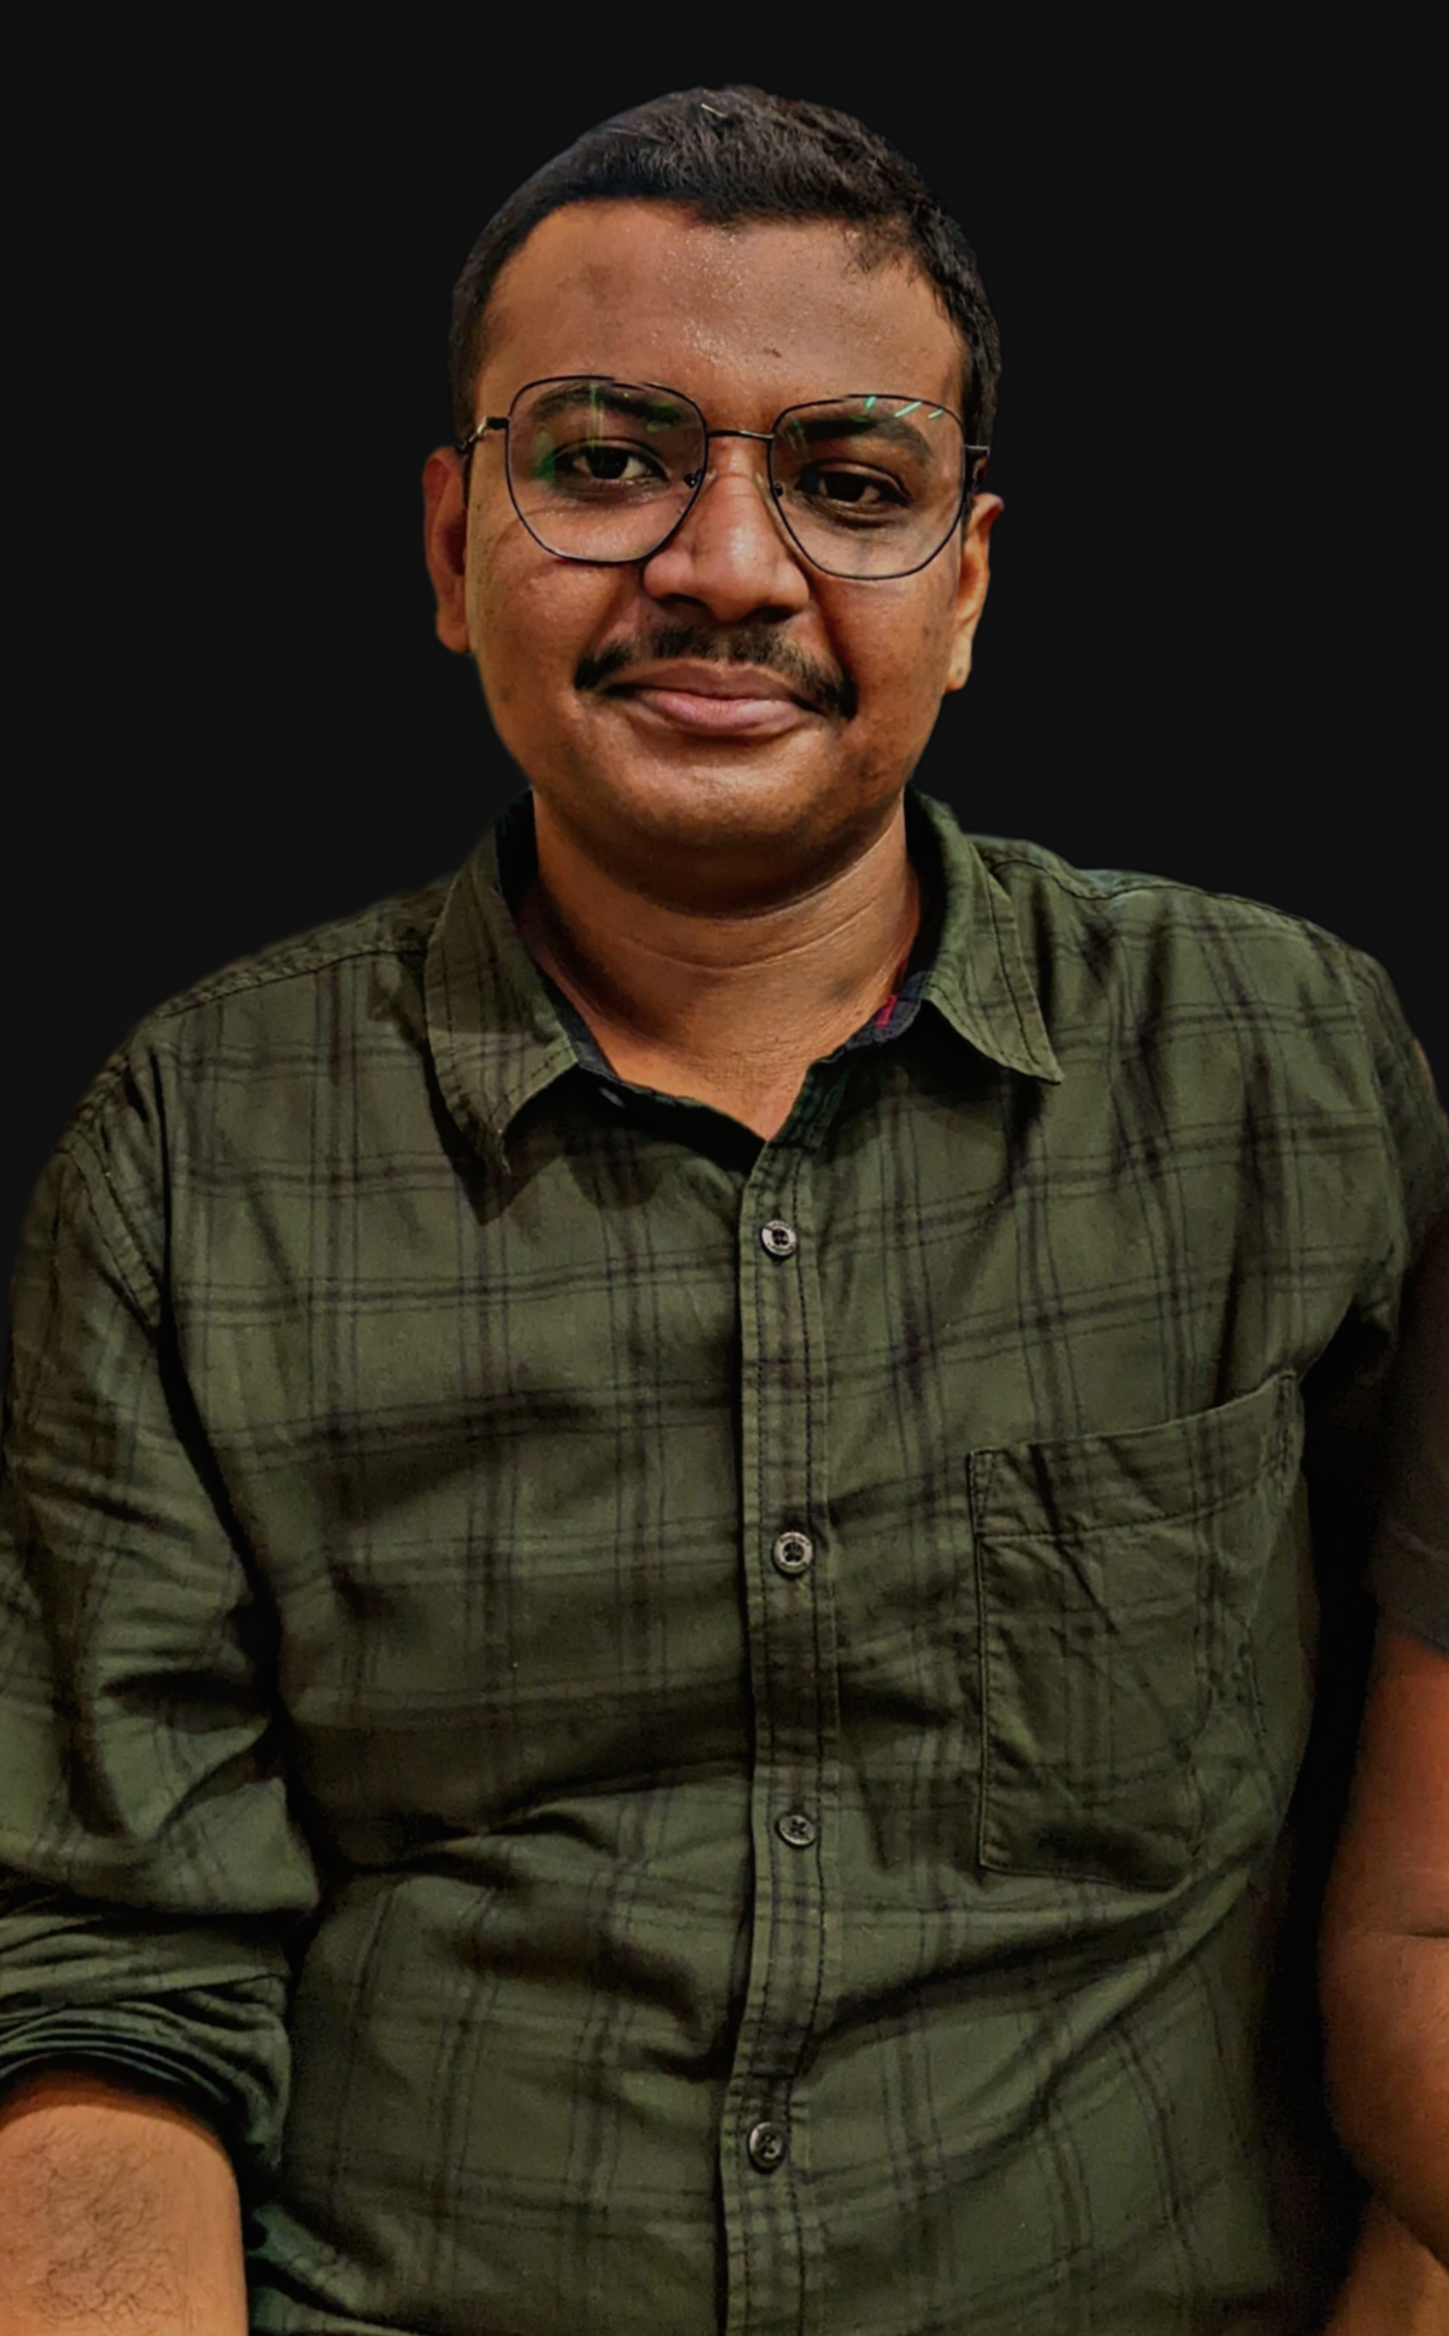
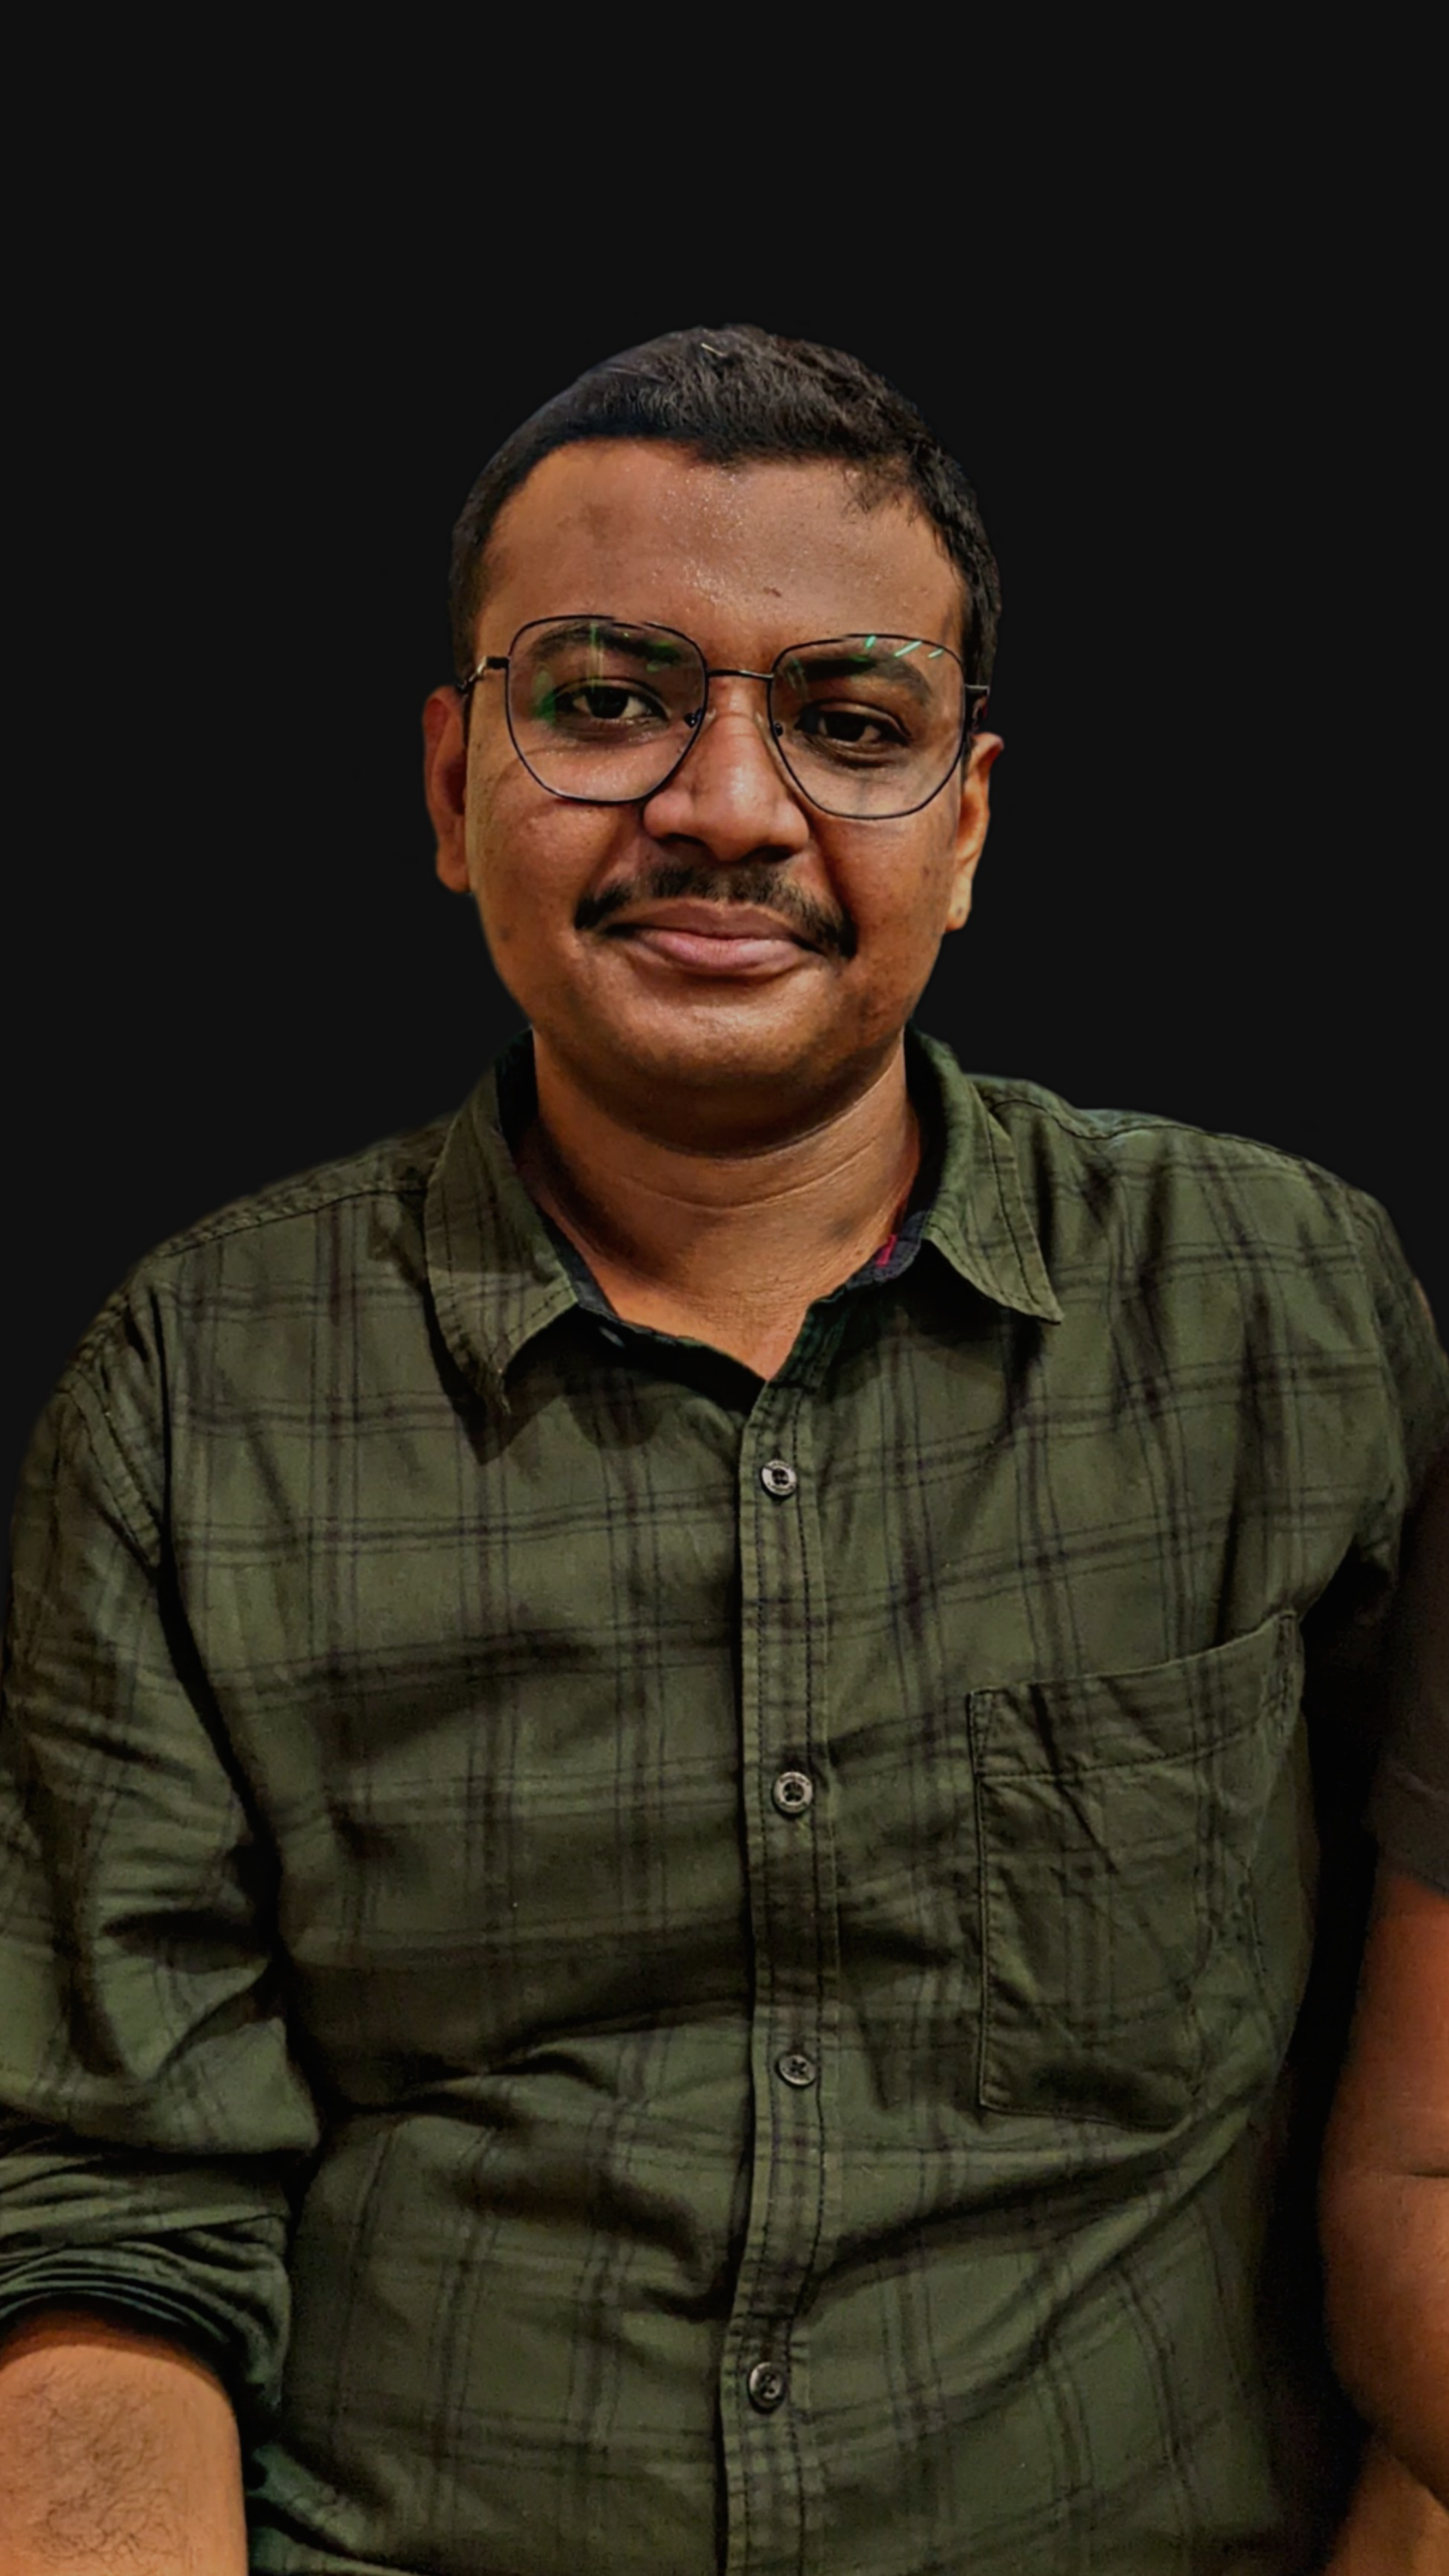
thirt comment

diff --git a/index.html b/index.html
@@ -38,7 +38,7 @@
         <div class="container">
             <div class="row">
                 <div class="about-col-1">
-                    <img src="images/user2.png" alt="">
+                    <img src="images/user3.png" alt="">
                 </div>
                 <div class="about-col-2" >
                     <h1 class="sub-title">About Me</h1>
@@ -158,7 +158,7 @@
                     </div>
                 </div>
             </div>
-            <a href="#" onclick="javascript: alert('Thanks for showing interest\nWill  update soon.')" class="btn">See more</a>
+            <a href="javascript:void(0)" onclick="javascript: alert('Thanks for showing interest\nWill update soon.')" class="btn">See more..</a>
         </div>
     </div>
 
